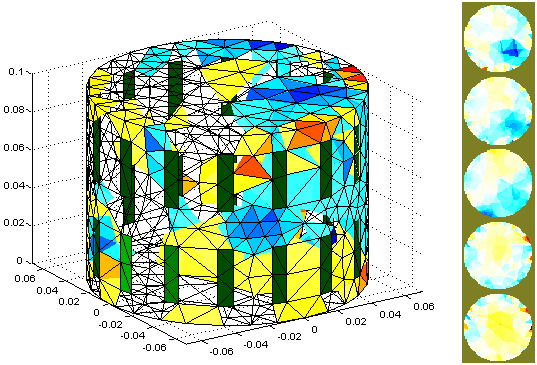
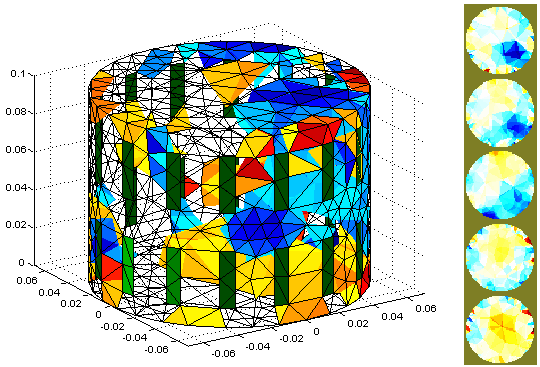
update tutorial with better colour mappings
git-svn-id: svn://svn.code.sf.net/p/eidors3d/code/trunk@852 82006732-fb7e-4a22-9f28-86a212cce563

diff --git a/htdocs/tutorial/tutorial151_nonlinearGN.m b/htdocs/tutorial/tutorial151_nonlinearGN.m
@@ -3,7 +3,7 @@ function img= tutorial151_nonlinearGN( inv_model, data )
 % img        => output image (or vector of images)
 % inv_model  => inverse model struct
 % data       => measurement data
-% $Id: tutorial151_nonlinearGN.m,v 1.2 2006-11-17 03:57:30 aadler Exp $
+% $Id: tutorial151_nonlinearGN.m,v 1.3 2006-11-17 13:22:31 aadler Exp $
 
 fwd_model= inv_model.fwd_model;
 
@@ -15,17 +15,17 @@ sol= inv_model.tutorial151_nonlinearGN.init_backgnd * ...
 RtR = calc_RtR_prior( inv_model );
 hp2  = calc_hyperparameter( inv_model )^2;
 
-factor= 0;
+factor= 0; norm_d_data= inf;
 for iter= 1:inv_model.parameters.max_iterations
    img.elem_data= sol;
    simdata= fwd_solve( img );
 
    d_data= data - simdata.meas;
-   norm_d_data= norm(d_data); 
+   prev_norm_d_data= norm_d_data; norm_d_data= norm(d_data); 
    eidors_msg('tutorial151_nonlinearGN: iter=%d err=%f factor=%f', ...
            iter,norm_d_data, factor, 2);
 
-   if norm_d_data < inv_model.parameters.term_tolerance
+   if prev_norm_d_data - norm_d_data < inv_model.parameters.term_tolerance
       break;
    end
    

diff --git a/htdocs/tutorial/tutorial151d.m b/htdocs/tutorial/tutorial151d.m
@@ -1,5 +1,5 @@
 % Difference imaging result
-% $Id: tutorial151d.m,v 1.2 2006-11-17 03:57:30 aadler Exp $
+% $Id: tutorial151d.m,v 1.3 2006-11-17 13:22:31 aadler Exp $
 
 % imdl is loaded from file tutorial151_model.mat
 imdl.reconst_type= 'static';
@@ -9,7 +9,7 @@ imdl.parameters.max_iterations= 10;
 % special parameter for this model
 imdl.tutorial151_nonlinearGN.init_backgnd= backgnd;
 
-imdl.hyperparameter.value= 3e-1;
+imdl.hyperparameter.value= 1e-2;
 img_diff= inv_solve(imdl, v_targ);
 
 clf;
